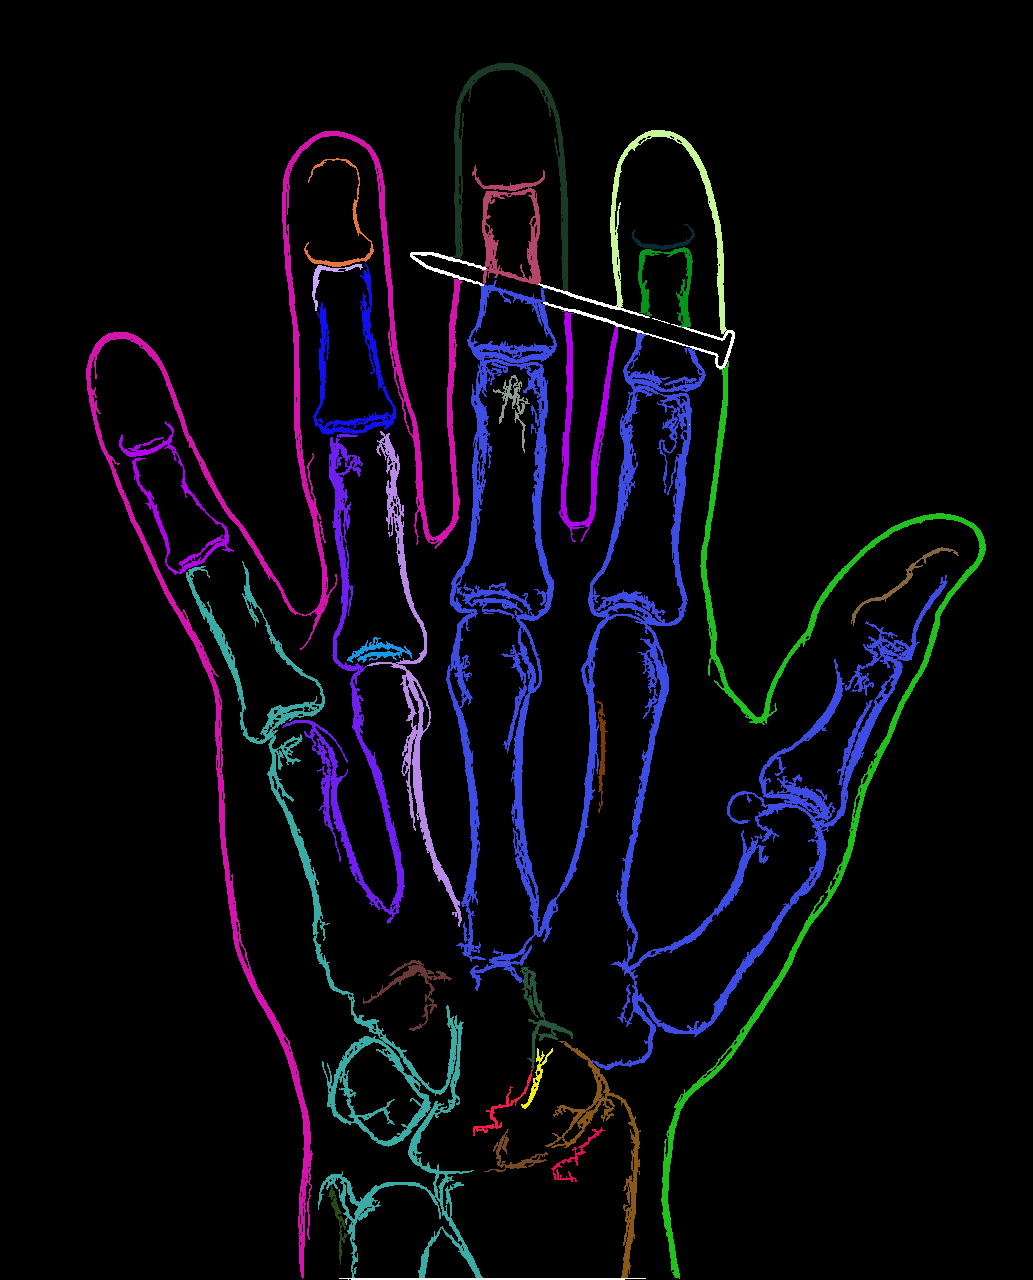
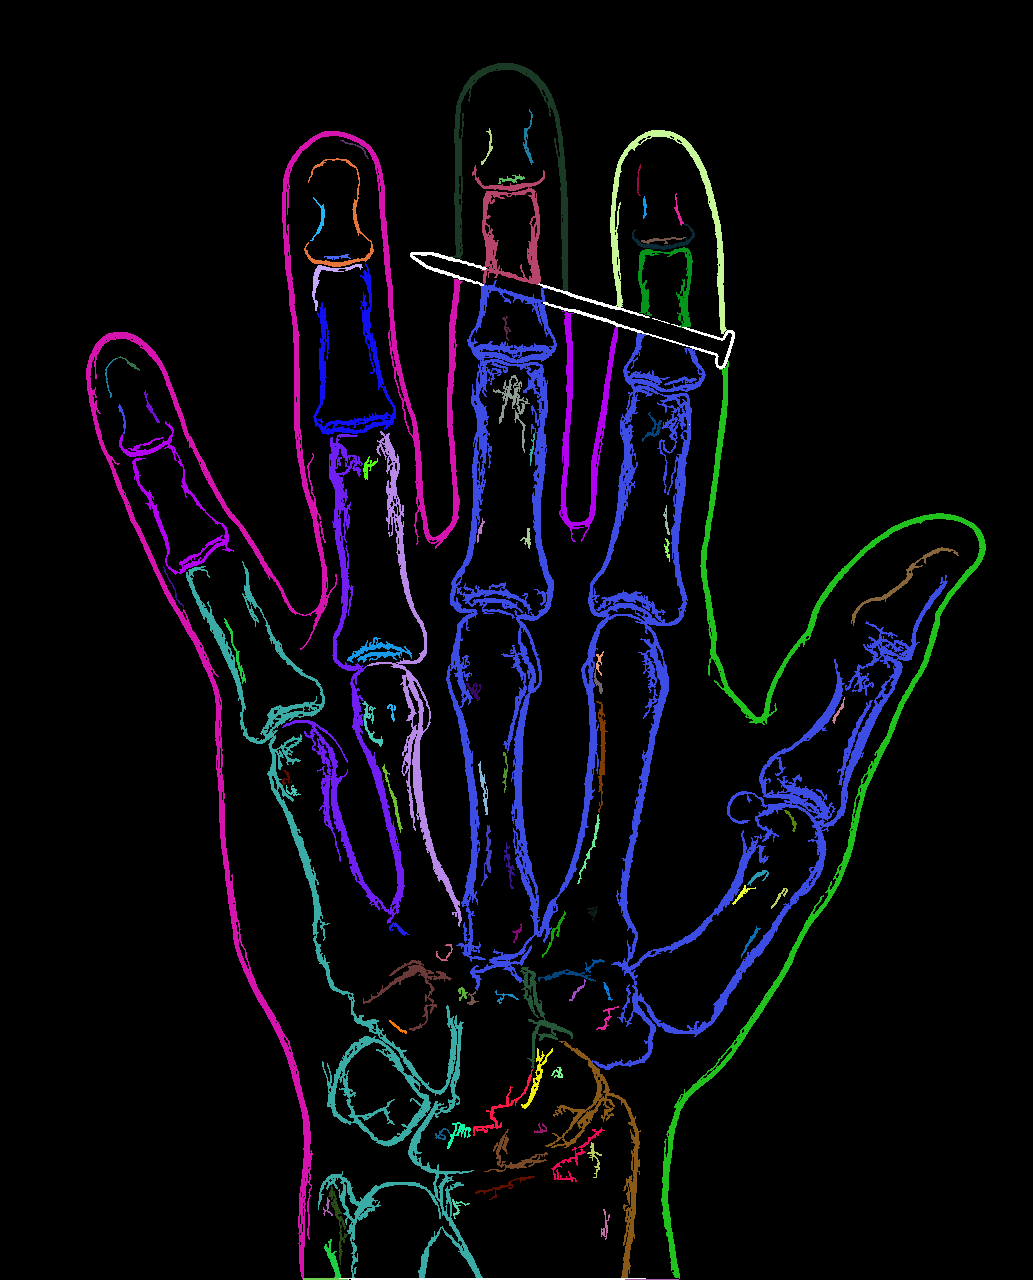
changed minimal size of component

diff --git a/src/main.c b/src/main.c
@@ -39,7 +39,7 @@ int main() {
     int *components_arr = calloc(n, sizeof(int));
 
     count_pixel_in_components(image_wb, height, width, components_arr);
-    write_png_color(image_wb, height, width, components_arr, 300, "img/output2.png");
+    write_png_color(image_wb, height, width, components_arr, 50, "img/output2.png");
 
     free(components_arr);
     for (i = 0; i < height; i++)
